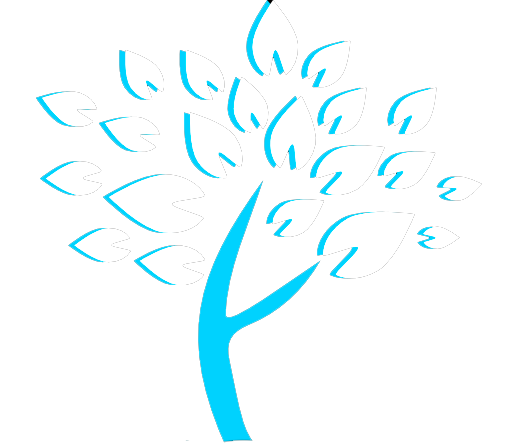
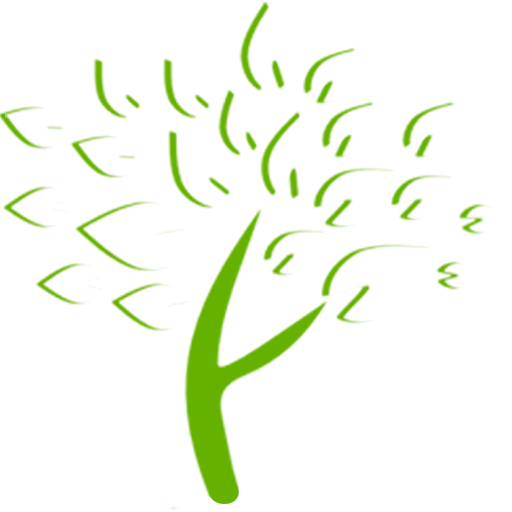
Mudando a HomePage e as cores

diff --git a/src/components/Header/index.js b/src/components/Header/index.js
@@ -1,22 +1,76 @@
 import React from "react";
-import { View, Text, Image, StyleSheet } from 'react-native';
+import { View, Text, Image, StyleSheet, TextInput } from 'react-native';
+import { TouchableOpacity } from "react-native-gesture-handler";
+import { Feather } from '@expo/vector-icons'
 
 export const Header = () => {
+    const [saldo, setSaldo] = React.useState (0)
+
+    const converterParaReais = (saldoAtual) => {
+        const novoSaldo = saldoAtual / 100
+
+        return novoSaldo.toLocaleString('pt-BR',{style: 'currency', currency: 'BRL'})
+    }
+
+    const adicionar = () => {
+        setSaldo(saldo+100)
+    }
+
     return (
         <View style={styles.header}>
-            <Image source={require('../../../assets/icon.png')} style={{width: 40, height: 40}} resizeMode='contain'/>
-            <Text style = {{fontSize:15, color:'white', paddingLeft:10}}>Nome Usuário</Text>
+            <View style={styles.iconLogo}>
+                <Image source={require('../../../assets/icon.png')} style={{width: 40, height: 40, paddingLeft: 100}} resizeMode='contain'/>
+            </View>
+            <Text style={{fontSize: 26, color: 'white'}}>Saldo</Text>
+            <View style={{flexDirection: 'row'}}>
+                <TextInput 
+                    keyboardType='numeric' 
+                    style={{
+                        color: 'white', 
+                        fontSize: 40, 
+                    }}
+                >
+                    R$ {converterParaReais(saldo)}
+                </TextInput>
+                <TouchableOpacity 
+                    onPress = {()=>adicionar()}
+                    
+                    style={styles.buttonSaldo}
+                >
+                    <Feather name='plus' size={30} style={{color: 'white'}}/>
+                </TouchableOpacity>
+            </View>
+
         </View>
     )
     }
 
 const styles = StyleSheet.create({
     header: {
-        height: 90,
+        height: 200,
         backgroundColor: '#232323',
-        flexDirection: 'row',
-        alignItems: 'center',
-        paddingLeft: 20,
-        paddingTop: 35
+        paddingLeft: 30,
+        paddingRight: 30,
+        paddingTop: 35,
+        borderRadius: 20
     },
+    iconLogo: {
+        backgroundColor: '#161616',
+        height: 50,
+        width: 50,
+        alignItems: 'center',
+        justifyContent: 'center',
+        borderRadius: 30,
+        marginLeft: 250
+    },
+    buttonSaldo: {
+        backgroundColor: '#80B01B',
+        borderRadius: 30,
+        height: 50,
+        width: 50,
+        alignItems:'center',
+        justifyContent: 'center',
+        marginLeft: 170,
+    },
+
 })

diff --git a/src/pages/HomeScreen.js b/src/pages/HomeScreen.js
@@ -34,30 +34,6 @@ const HomeScreen = ({navigation}) => {
         <SafeAreaView style={{backgroundColor: '#161616', height: Dimensions.get('window').height+38}}>
             <Header/>
             
-            <Text style={{fontSize:25, fontWeight: 'bold', color: 'white', marginLeft: 50, marginTop: 20}}>Saldo</Text>
-            
-            <View  style={styles.box}>
-                <TextInput 
-                    keyboardType='numeric' 
-                    style={{
-                        margin: 25, 
-                        color: 'white', 
-                        fontSize: 50, 
-                        fontWeight: 'bold'
-                    }}
-
-                >
-                    R$ {converterParaReais(saldo)}
-                </TextInput>
-                <TouchableOpacity 
-                    onPress = {()=>adicionar()}
-                    
-                    style={styles.buttonSaldo}
-                >
-                    <Feather name='plus' size={30} style={{marginTop: 15, color: '#10D1FC'}}/>
-                </TouchableOpacity>
-            </View>
-            
             <ScrollView style={{
                 backgroundColor: '#161616', 
                 marginVertical: 30, 
@@ -162,15 +138,6 @@ const styles = StyleSheet.create({
         backgroundColor: '#10D1FC',
         marginTop: 5,
         borderRadius: 20,
-    },
-    buttonSaldo: {
-        backgroundColor: 'white',
-        borderRadius: 30,
-        height: 60,
-        width: 60,
-        alignItems:'center',
-        position:'relative',
-        marginLeft: 10,
     },
 })
 

diff --git a/src/pages/SplashScreen.js b/src/pages/SplashScreen.js
@@ -23,7 +23,7 @@ const SplashScreen = ({ navigation }) => {
                     animation='bounceIn'
                     duration={1500}
                     
-                source = {require('./icon.png')}
+                source = {require('../../assets/icon.png')}
                 style = {styles.logo}
                 resizeMode = 'stretch'
                 />
@@ -108,7 +108,7 @@ const styles = StyleSheet.create({
     signIn: {
         width: 250,
         height: 40,
-        backgroundColor:'#00eaff',
+        backgroundColor:'#80B01B',
         justifyContent: 'center',
         alignItems: 'center',
         borderRadius:50,

diff --git a/App.js b/App.js
@@ -3,6 +3,7 @@ import React from 'react';
 import { StatusBar, StyleSheet, Text, View } from 'react-native';
 
 import RouterScreen from './src/pages/RouterScreen';
+import RoutesTab from './src/pages/RoutesTab';
 
 const App = () => {
   return (
